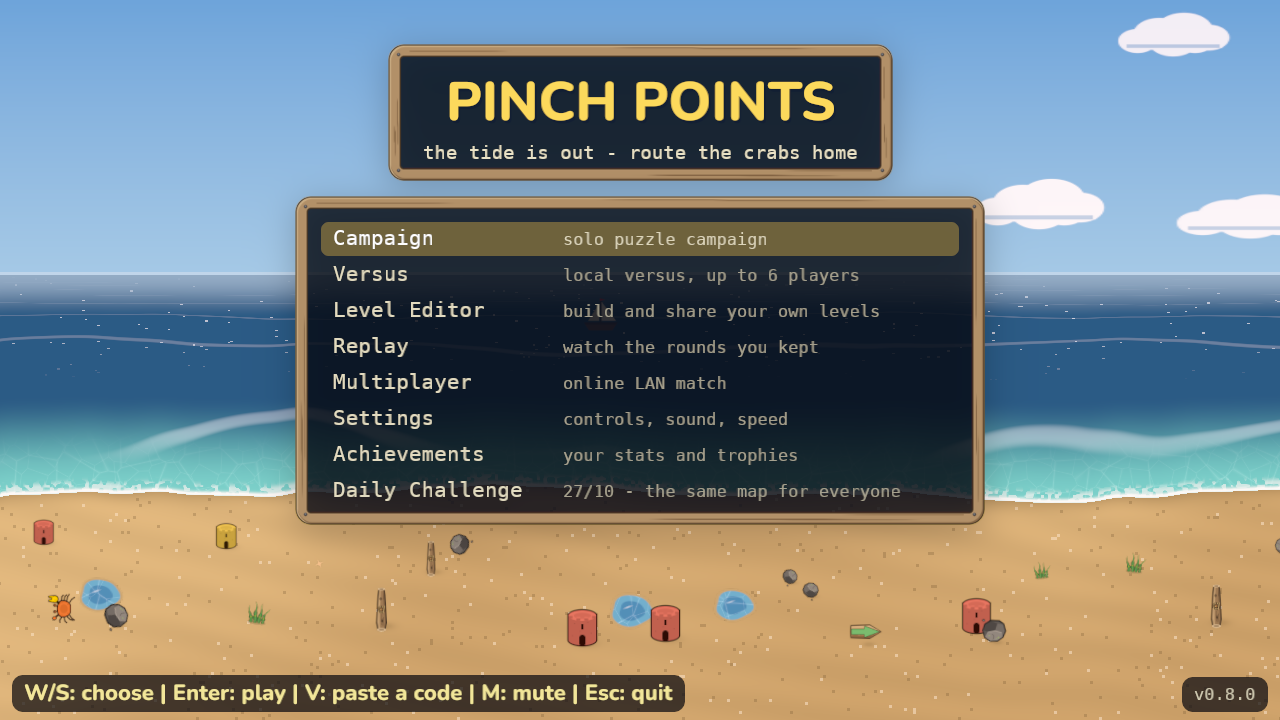
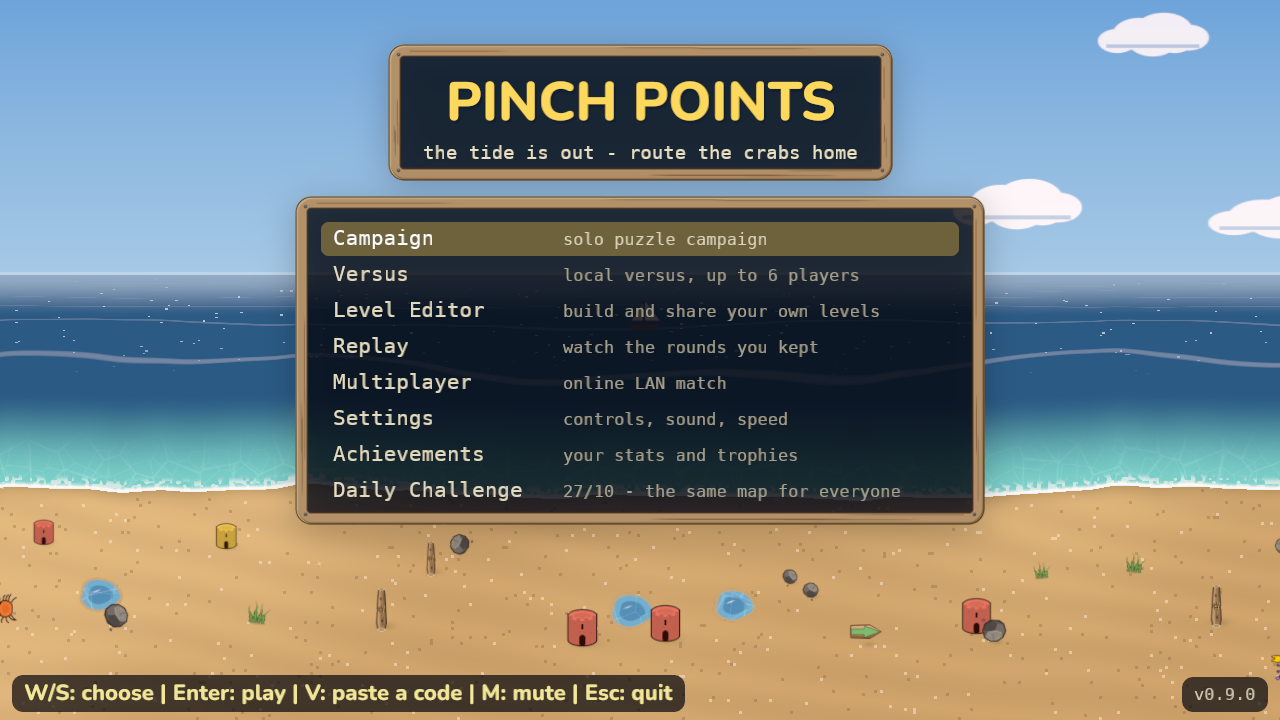
Prepare v0.9.0: version, menu shot, co-op on the landing page
- Bump the version to 0.9.0.
- Retake the menu screenshot, whose badge shows the version.
- Name the twenty co-op stages on the landing page: a "Co-op" entry in
  what's in the box, and the stage-list caption.
- Set the lobby's chat line on the prompt's dark pill: the pale band a
  card row uses let the sand and castles through, and "T: say
  something" all but vanished into them.

Claude-Session: https://claude.ai/code/session_01MAi7UjXPfWMYfhXJM49k23

diff --git a/site/index.html b/site/index.html
@@ -135,6 +135,7 @@
   <h2>What's in the box</h2>
   <ul>
     <li><b>Campaign</b> 100 solo puzzles</li>
+    <li><b>Co-op</b> 20 puzzles for two</li>
     <li><b>Versus</b> 2-6 on one couch</li>
     <li><b>Multiplayer</b> up to 6 over LAN</li>
     <li><b>Level Editor</b> build and share</li>
@@ -193,8 +194,8 @@ Waiting for 1 bot. Start it with:
   </figure>
   <figure>
     <img src="media/stages.webp" width="1280" height="720" loading="lazy"
-         alt="The stage list, cleared stages filled gold">
-    <figcaption>A hundred puzzles, each proved solvable with exactly the arrows it gives you.</figcaption>
+         alt="The stage list, cleared stages filled gold, and the twenty co-op stages under them">
+    <figcaption>A hundred puzzles, each proved solvable with exactly the arrows it gives you, plus twenty co-op stages: one of you turns left claws, the other right, and each stage needs you both.</figcaption>
   </figure>
   <figure>
     <img src="media/menu.webp" width="1280" height="720" loading="lazy"

diff --git a/src/app/lobby/ui.rs b/src/app/lobby/ui.rs
@@ -682,7 +682,13 @@ pub fn update_lobby_chat(
     // type into, and a lit box with nothing in it looks like a fault.
     let box_lit = state.typing.is_some() || state.can_chat();
     for mut fill in &mut entry {
-        let want = crate::app::menu_ui::band(box_lit);
+        // The prompt's own dark pill, not a card row's band: this line
+        // stands on the open beach, where the pale band let the sand and
+        // the castles through and the hint all but vanished into them.
+        let want = match box_lit {
+            true => palette::PILL_FILL,
+            false => Color::NONE,
+        };
         crate::app::menu_ui::set_bg(&mut fill, want);
     }
     for (row, mut text, mut color) in &mut rows {
